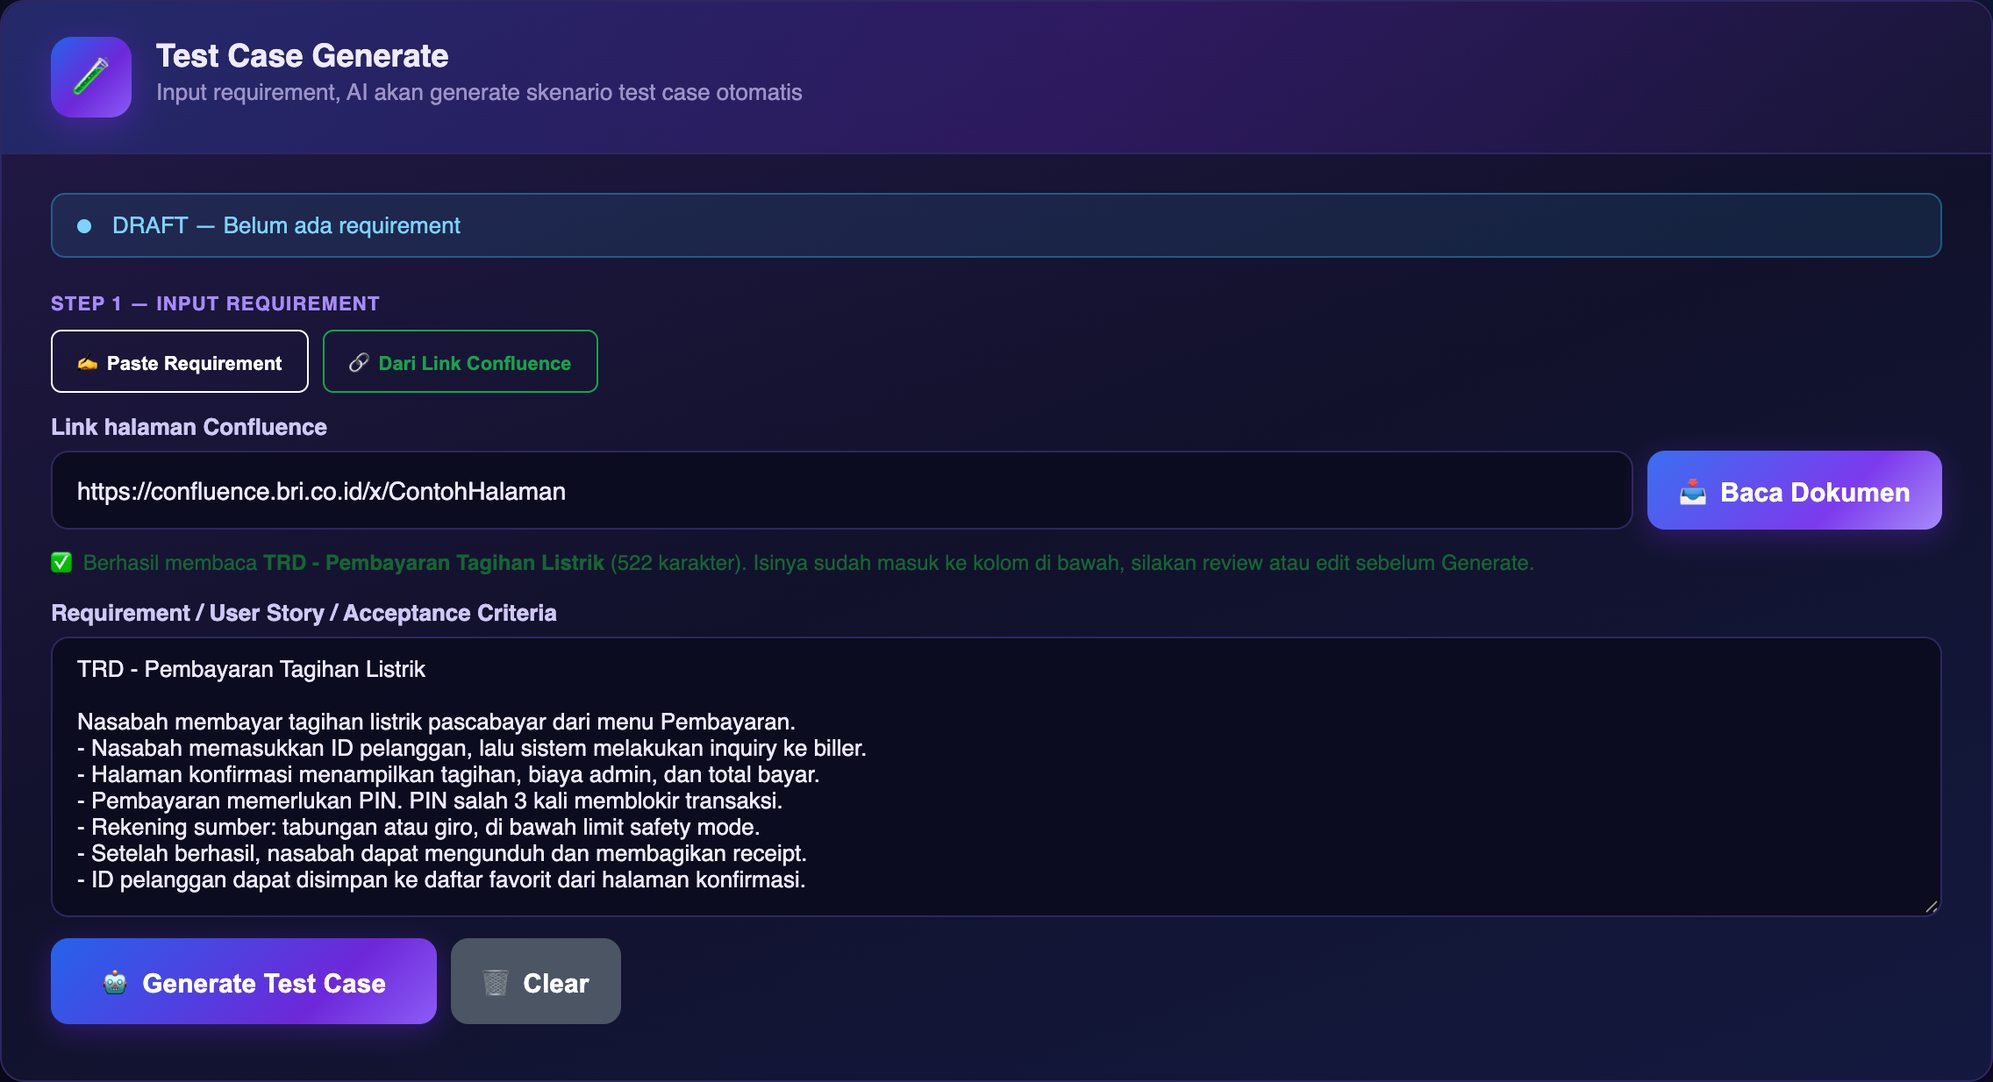
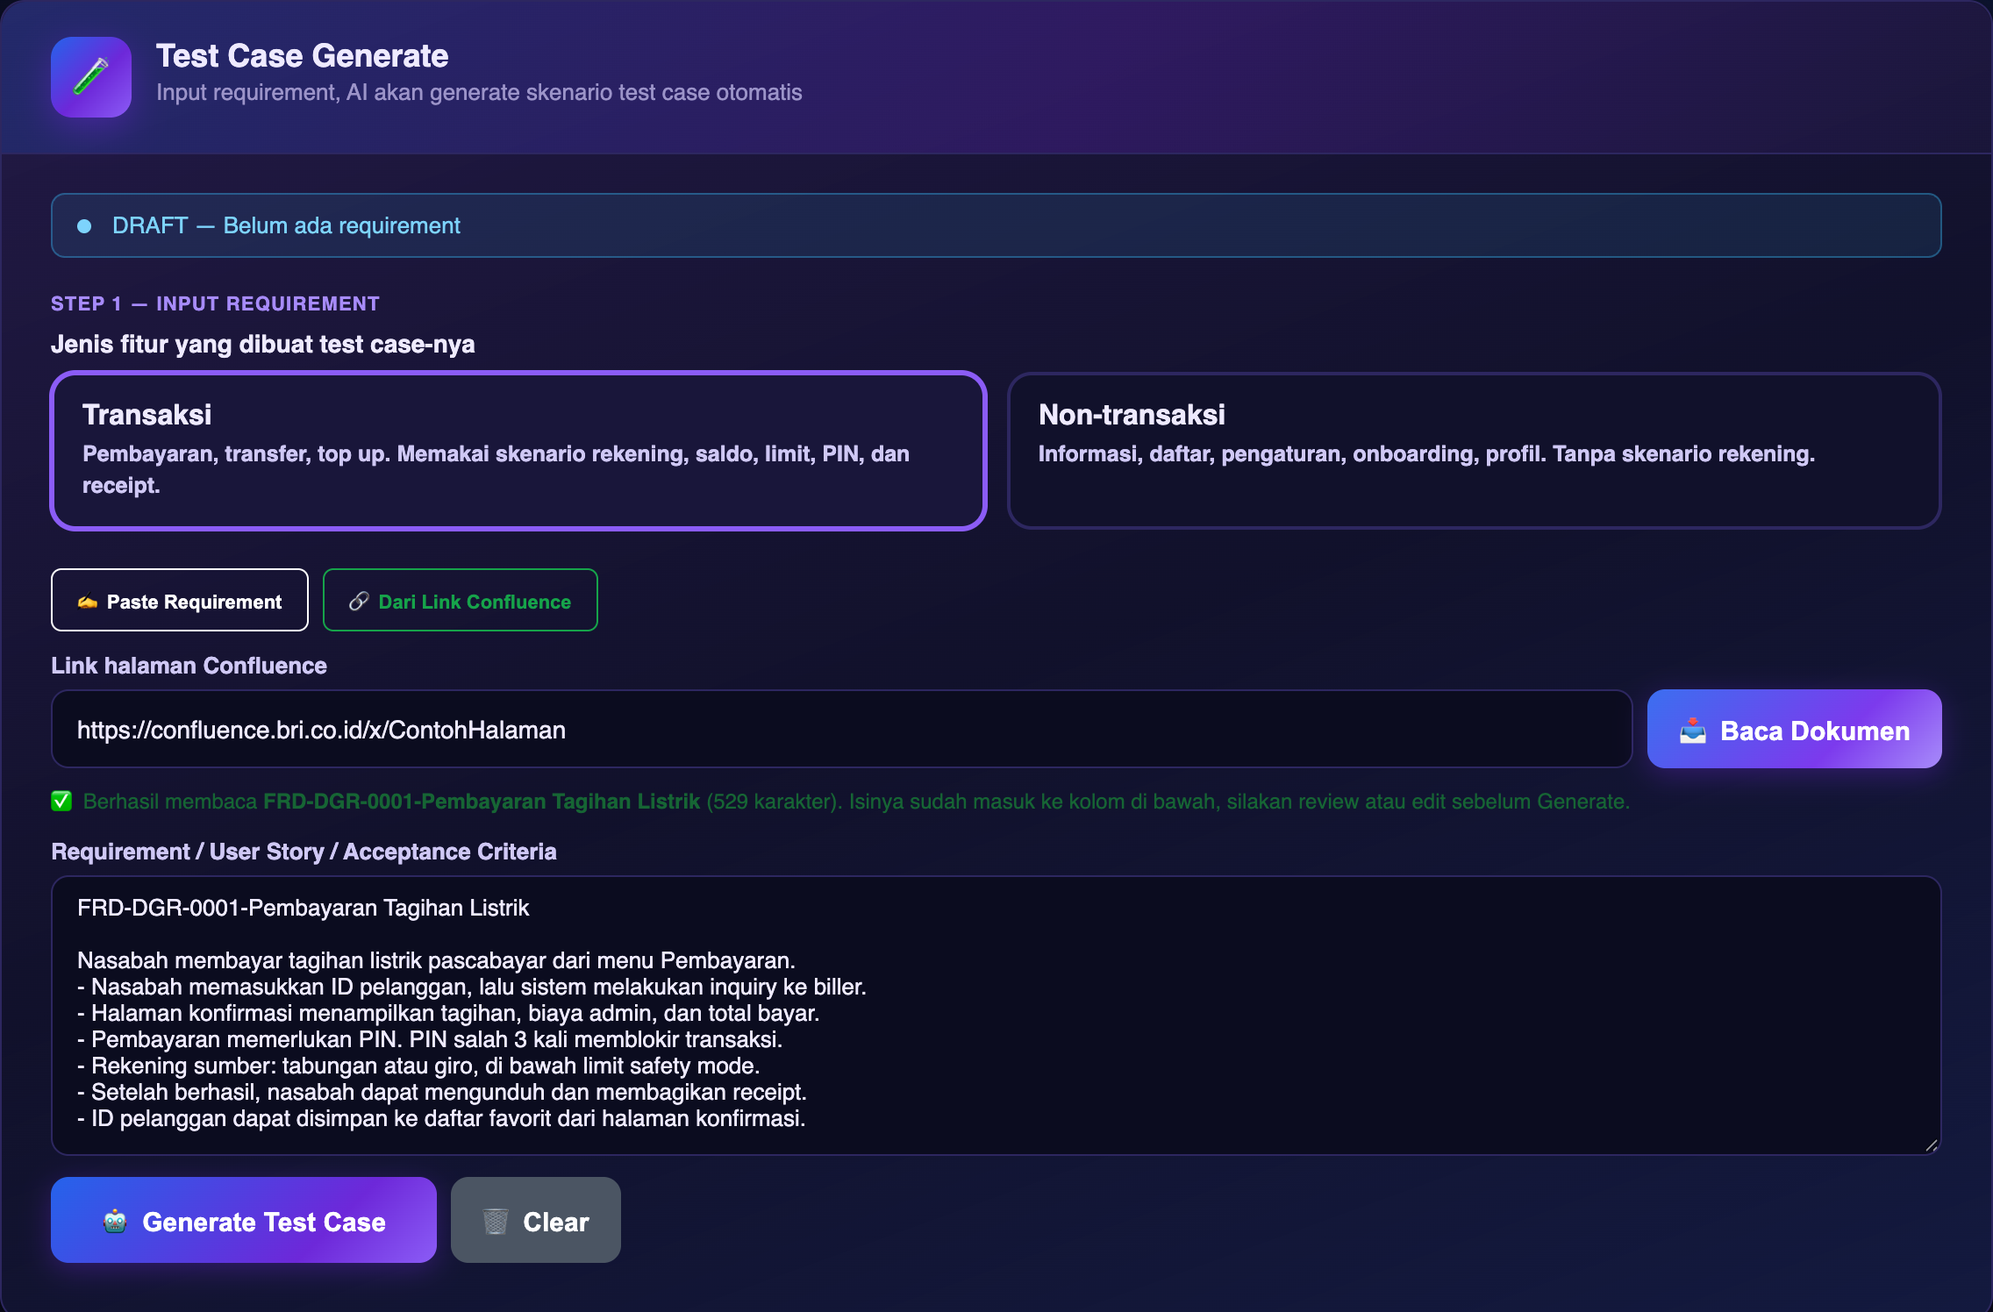
Perbarui presentasi: jenis fitur, 3 tombol keluaran, slide Jira dan Confluence sekali klik

Changed region(s): [[0.0, 0.0308, 1.0, 1.0], [0.5, 0.3079, 0.9062, 0.3695], [0.7188, 0.8314, 1.0, 0.893]]

diff --git a/index.html b/index.html
@@ -111,8 +111,11 @@ code, .mono { font-family: var(--mono); font-size: .9em; color: var(--text); }
 
 .s4 .text { width: 640px; flex: none; }
 .s4 .shot { width: 1032px; }
-.s5 .shot { width: 963px; }
+.s5 .shot { width: 860px; margin-top: 36px; }
 .s5 .text { flex: 1; }
+.sauto .text { flex: 1; }
+.sauto .stack { display: flex; flex-direction: column; gap: 24px; margin-left: auto; width: 760px; flex: none; }
+.sauto .shot { width: 100%; }
 .s6 .text { width: 560px; flex: none; }
 .s6 .shots { display: flex; gap: 24px; align-items: flex-start; margin-left: auto; }
 .s6 .shot { width: 536px; }
@@ -220,7 +223,7 @@ dialog .close { margin-top: 14px; }
     </div>
     <div class="main">
       <ol class="rows">
-        <li data-step="1"><span class="n">01</span><div><b>Menulis test case</b><span>Skenario per biller dan per kondisi ditulis satu per satu dari dokumen requirement.</span></div></li>
+        <li data-step="1"><span class="n">01</span><div><b>Menulis test case</b><span>Skenario per biller dan per kondisi ditulis satu per satu, lalu disalin lagi ke Jira dan Confluence.</span></div></li>
         <li data-step="2"><span class="n">02</span><div><b>Mengisi tiket UQA</b><span>Lebih dari 20 field di Jira, hampir semuanya sama dengan tiket sebelumnya.</span></div></li>
         <li data-step="3"><span class="n">03</span><div><b>Mengingatkan tiket</b><span>Tiket yang belum Done dicek satu per satu, lalu dikabari lewat chat.</span></div></li>
         <li data-step="4"><span class="n">04</span><div><b>Memeriksa defect</b><span>Screenshot dibandingkan dengan frame Figma menggunakan mata.</span></div></li>
@@ -236,7 +239,7 @@ dialog .close { margin-top: 14px; }
         <div class="lane-name"><b>Alur A</b><span>Test case sampai WhatsApp</span></div>
         <ol class="nodes">
           <li><b>Requirement</b><span>Tempel teks atau baca dari link Confluence</span></li>
-          <li><b>Test case</b><span>AI menyusun skenario, kamu memilih yang dipakai</span></li>
+          <li><b>Test case</b><span>AI menyusun, kamu memilih, lalu dibuat di Jira dan Confluence</span></li>
           <li><b>Tiket UQA</b><span>Form terisi, tiket dibuat di Jira setelah kamu klik</span></li>
           <li><b>WhatsApp</b><span>Pengingat dan laporan terkirim ke nomor atau grup</span></li>
         </ol>
@@ -257,30 +260,46 @@ dialog .close { margin-top: 14px; }
     <div class="head"><p class="kicker">Alur A, langkah 1: test case</p><h2>Requirement masuk, skenario keluar</h2></div>
     <div class="body">
       <ul class="facts text">
-        <li data-step="1"><b>Dua sumber input</b><span>Tempel teks requirement, atau masukkan link halaman Confluence dan isinya dibaca otomatis.</span></li>
-        <li data-step="2"><b>Tiga batch paralel</b><span>Transaksi, timeout, dan validasi sistem disusun bersamaan, tidak menunggu satu per satu.</span></li>
-        <li data-step="3"><b>Satu skenario per biller</b><span>Requirement dengan beberapa biller menghasilkan skenario terpisah untuk tiap biller.</span></li>
+        <li data-step="1"><b>Jenis fitur dipilih dulu</b><span>Transaksi memakai skenario rekening, saldo, limit, PIN, dan receipt. Non-transaksi tidak memuat skenario rekening sama sekali.</span></li>
+        <li data-step="2"><b>Dua sumber input</b><span>Tempel teks requirement, atau masukkan link halaman Confluence dan isinya dibaca otomatis.</span></li>
+        <li data-step="3"><b>Tiga batch paralel</b><span>Disusun bersamaan sesuai jenis fitur. Beberapa biller menghasilkan skenario terpisah per biller.</span></li>
       </ul>
-      <figure class="shot"><img src="assets/testcase-input.png" width="1136" height="617" alt="Halaman Test Case Generate dengan link Confluence terisi dan teks requirement hasil bacaan"><span class="sample">Data contoh</span></figure>
+      <figure class="shot"><img src="assets/testcase-input.png" width="1136" height="748" alt="Halaman Test Case Generate dengan pilihan jenis fitur Transaksi atau Non-transaksi, link Confluence terisi, dan teks requirement hasil bacaan"><span class="sample">Data contoh</span></figure>
     </div>
-    <p class="notes">Requirement bisa ditempel langsung atau dibaca dari halaman Confluence. Hasil bacaan masuk ke kolom yang sama, jadi kamu bisa mengeditnya sebelum Generate. AI menyusun skenario dalam tiga batch yang jalan bersamaan.</p>
+    <p class="notes">Pilih dulu jenis fiturnya. Fitur non-transaksi seperti onboarding atau profil tidak akan mendapat skenario rekening Branch A atau B. Requirement bisa ditempel atau dibaca dari halaman Confluence, lalu diedit sebelum Generate.</p>
   </section>
 
   <section class="slide s5" data-title="Kamu yang memutuskan skenario yang dipakai" aria-label="Slide 5">
     <div class="head"><p class="kicker">Alur A, langkah 2: review</p><h2>Kamu yang memutuskan skenario mana yang dipakai</h2></div>
     <div class="body">
-      <figure class="shot"><img src="assets/testcase-review.png" width="1106" height="913" alt="Tabel delapan test case, tujuh berstatus USE dan satu REMOVE, dengan tombol Finalize dan export"><span class="sample">Data contoh</span></figure>
+      <figure class="shot"><img src="assets/testcase-review.png" width="1078" height="901" alt="Tabel delapan test case, tujuh berstatus USE dan satu REMOVE, dengan tombol Finalize dan tiga tombol keluaran"><span class="sample">Data contoh</span></figure>
       <ul class="facts text">
         <li data-step="1"><b>Tandai tiap skenario</b><span>USE, REMOVE, atau edit. Ada juga tombol untuk memakai atau menghapus semuanya.</span></li>
         <li data-step="2"><b>Finalize membawa yang USE</b><span>Skenario yang dihapus tidak ikut ke keluaran.</span></li>
-        <li data-step="3"><b>Tiga bentuk keluaran</b><span>Halaman Confluence langsung dari aplikasi, file HTML, atau CSV.</span></li>
+        <li data-step="3"><b>Tiga tombol keluaran</b><span>Download CSV, Auto Create Confluence Page yang sekaligus membuat test di Jira, dan Buat Jira UQA.</span></li>
       </ul>
     </div>
     <p class="notes">AI hanya mengusulkan. Setiap skenario kamu putuskan sendiri. Setelah Finalize, jumlah yang dipakai itu juga yang nanti mengisi kolom SIT dan UAT di tiket.</p>
   </section>
 
-  <section class="slide s6" data-title="Tiket UQA sudah terisi" aria-label="Slide 6">
-    <div class="head"><p class="kicker">Alur A, langkah 3: tiket Jira</p><h2>Tiket UQA sudah terisi, kamu tinggal memeriksa</h2></div>
+  <section class="slide sauto" data-title="Test Jira dan halaman Confluence sekali klik" aria-label="Slide 6">
+    <div class="head"><p class="kicker">Alur A, langkah 3: Jira dan Confluence</p><h2>Test di Jira dan halaman Confluence, sekali klik</h2></div>
+    <div class="body">
+      <ul class="facts text">
+        <li data-step="1"><b>Epic, Test Set, Test</b><span>Satu Epic, satu Test Set, dan Test untuk tiap skenario USE. Test juga masuk folder Test Repository dengan judul yang sama.</span></li>
+        <li data-step="2"><b>Judul dari FRD</b><span>Diambil dari judul halaman Confluence tanpa awalan FRD-xxx-nnnn, dan tetap bisa diedit.</span></li>
+        <li data-step="3"><b>Nomor Jira di Confluence</b><span>Halaman dibuat setelah Jira selesai. Kolom No. Test Case berisi TC001 dan key Test-nya.</span></li>
+        <li data-step="4"><b>Cek dulu, tidak dobel</b><span>Pratinjau menunjukkan yang dibuat baru dan yang dipakai ulang. Test yang sudah ada dilewati.</span></li>
+      </ul>
+      <div class="stack">
+        <figure class="shot"><img src="assets/auto-modal.png" width="640" height="239" alt="Pratinjau sebelum dibuat: project, Epic, Test Set, folder, jumlah Test, dan halaman Confluence tujuan"><span class="sample">Data contoh</span></figure>
+        <figure class="shot"><img src="assets/auto-hasil.png" width="680" height="319" alt="Hasil: key Epic, Test Set, dan Test di Jira, serta halaman Confluence yang berhasil dibuat"></figure>
+      </div>
+    </div>
+    <p class="notes">Dulu test case ditulis di Confluence lalu dibuat ulang satu per satu di Jira. Sekarang satu tombol membuat Epic, Test Set, dan Test, lalu halaman Confluence yang sudah berisi nomor Jira. Di project yang tidak mengizinkan Epic dibuat lewat API, Epic dibuat lewat WBS Gantt.</p>
+  </section>
+  <section class="slide s6" data-title="Tiket UQA sudah terisi" aria-label="Slide 7">
+    <div class="head"><p class="kicker">Alur A, langkah 4: tiket Jira</p><h2>Tiket UQA sudah terisi, kamu tinggal memeriksa</h2></div>
     <div class="body">
       <ul class="facts text">
         <li data-step="1"><b>Dihitung dan diisi otomatis</b><span>Isi awal dari tiket UQA sebelumnya. Working Weeks dan Months dari tanggal hari ini, SIT dan UAT dari jumlah skenario yang dipakai.</span></li>
@@ -295,8 +314,8 @@ dialog .close { margin-top: 14px; }
     <p class="notes">Form ini menggantikan belasan klik di Jira. Semua kolom tetap bisa diedit. Kolom yang berisi data orang atau data change management sengaja kosong, supaya tidak ada yang terisi tanpa disengaja.</p>
   </section>
 
-  <section class="slide s7" data-title="Tiket yang belum Done diingatkan otomatis" aria-label="Slide 7">
-    <div class="head"><p class="kicker">Alur A, langkah 4: WhatsApp</p><h2>Tiket yang belum Done diingatkan otomatis</h2></div>
+  <section class="slide s7" data-title="Tiket yang belum Done diingatkan otomatis" aria-label="Slide 8">
+    <div class="head"><p class="kicker">Alur A, langkah 5: WhatsApp</p><h2>Tiket yang belum Done diingatkan otomatis</h2></div>
     <div class="body">
       <figure class="shot"><img src="assets/wa-chat.png" width="520" height="780" alt="Percakapan WhatsApp berisi pesan pengingat tiket dan satu file laporan HTML"><span class="sample">Tampilan contoh</span></figure>
       <ul class="facts text">
@@ -309,8 +328,8 @@ dialog .close { margin-top: 14px; }
     <p class="notes">Pesan berisi key tiket, judul, status, dan link yang bisa langsung diklik. Kalau tiketnya sudah Done, bot diam. Jadi pesan yang masuk memang tiket yang perlu dilihat.</p>
   </section>
 
-  <section class="slide s8" data-title="Laporan UQA jadi satu file" aria-label="Slide 8">
-    <div class="head"><p class="kicker">Alur A, langkah 5: laporan</p><h2>Laporan UQA jadi satu file dan terkirim ke WhatsApp</h2></div>
+  <section class="slide s8" data-title="Laporan UQA jadi satu file" aria-label="Slide 9">
+    <div class="head"><p class="kicker">Alur A, langkah 6: laporan</p><h2>Laporan UQA jadi satu file dan terkirim ke WhatsApp</h2></div>
     <div class="pair">
       <figure class="shot"><img src="assets/report-ui.png" width="1090" height="759" alt="Daftar review laporan UQA dengan tombol edit dan hapus di tiap baris dan tombol Kirim ke WhatsApp"><span class="sample">Review, data contoh</span></figure>
       <figure class="shot"><img src="assets/report-html.png" width="1240" height="860" alt="Laporan HTML dengan kartu ringkasan, sebaran status, dan tabel tiket"><span class="sample">Hasil, data contoh</span></figure>
@@ -323,7 +342,7 @@ dialog .close { margin-top: 14px; }
     <p class="notes">Filter memakai query JQL yang sama dengan yang biasa dipakai tim. Hasilnya bisa kamu rapikan dulu di tabel review, lalu satu file HTML terkirim ke WhatsApp dan bisa dibuka di browser.</p>
   </section>
 
-  <section class="slide s9 lane-b" data-title="Lihat dulu desain dan gambar defect" aria-label="Slide 9">
+  <section class="slide s9 lane-b" data-title="Lihat dulu desain dan gambar defect" aria-label="Slide 10">
     <div class="head"><p class="kicker b">Alur B: Compare Defect</p><h2>Lihat dulu desain dan gambar defect, baru bandingkan</h2></div>
     <div class="pair">
       <figure data-step="1">
@@ -338,7 +357,7 @@ dialog .close { margin-top: 14px; }
     <p class="notes">Dua sumber ini dipratinjau terpisah supaya kamu yakin yang dibandingkan memang pasangan yang benar. Link Figma boleh menunjuk ke satu frame atau ke section berisi banyak layar, lalu kamu pilih salah satu.</p>
   </section>
 
-  <section class="slide s10 lane-b" data-title="Perbedaan ditandai di kedua gambar" aria-label="Slide 10">
+  <section class="slide s10 lane-b" data-title="Perbedaan ditandai di kedua gambar" aria-label="Slide 11">
     <div class="head"><p class="kicker b">Alur B: Compare Defect</p><h2>Perbedaan ditandai di kedua gambar</h2></div>
     <div class="body">
       <ul class="facts text">
@@ -351,7 +370,7 @@ dialog .close { margin-top: 14px; }
     <p class="notes">Tanpa AI pun kamu bisa membandingkan secara visual dengan tiga mode ini. Kalau AI dipakai, perbedaan ditandai dengan kotak yang nomornya cocok dengan tabel hasil.</p>
   </section>
 
-  <section class="slide s11 lane-b" data-title="Hasil analisis per area" aria-label="Slide 11">
+  <section class="slide s11 lane-b" data-title="Hasil analisis per area" aria-label="Slide 12">
     <div class="head"><p class="kicker b">Alur B: Compare Defect</p><h2>Hasil analisis tampil sebagai tabel per area</h2></div>
     <figure class="shot"><img src="assets/compare-result.png" width="1082" height="330" alt="Penilaian Defect valid dan tabel tiga perbedaan lengkap dengan isi desain, isi aktual, dan tingkat"><span class="sample">Hasil contoh</span></figure>
     <div class="cols">
@@ -362,7 +381,7 @@ dialog .close { margin-top: 14px; }
     <p class="notes">Angka dan isi tabel di slide ini adalah contoh. AI hanya membantu menemukan area yang perlu dilihat. Keputusan tetap di QA.</p>
   </section>
 
-  <section class="slide s12 lane-b" data-title="Komentar ke Jira direview dulu" aria-label="Slide 12">
+  <section class="slide s12 lane-b" data-title="Komentar ke Jira direview dulu" aria-label="Slide 13">
     <div class="head"><p class="kicker b">Alur B: Compare Defect</p><h2>Komentar ke Jira direview dulu, baru dikirim</h2></div>
     <div class="body">
       <ul class="facts text">
@@ -376,7 +395,7 @@ dialog .close { margin-top: 14px; }
     <p class="notes">Komentar tidak pernah terkirim sendiri. Kamu membaca drafnya, mengubah seperlunya, lalu menekan kirim dan mengonfirmasi di dialog. Gambar bertanda ikut menjadi lampiran tiket.</p>
   </section>
 
-  <section class="slide s13" data-title="Yang sengaja tidak berjalan sendiri" aria-label="Slide 13">
+  <section class="slide s13" data-title="Yang sengaja tidak berjalan sendiri" aria-label="Slide 14">
     <div class="head"><p class="kicker">Kontrol dan batas</p><h2>Yang sengaja tidak berjalan sendiri</h2></div>
     <div class="body">
       <div>
@@ -387,7 +406,7 @@ dialog .close { margin-top: 14px; }
         <div data-step="1">
           <h3>Selalu menunggu persetujuan kamu</h3>
           <ul class="facts">
-            <li><span>Tiket Jira dibuat setelah tombol Buat Tiket ditekan.</span></li>
+            <li><span>Tiket UQA, Test Jira, dan halaman Confluence dibuat setelah tombol Buat ditekan.</span></li>
             <li><span>Komentar dan lampiran ke Jira terkirim setelah dialog konfirmasi.</span></li>
             <li><span>Gambar dikirim ke layanan AI setelah persetujuan dicentang dan dikonfirmasi.</span></li>
             <li><span>Laporan ke WhatsApp terkirim setelah dialog konfirmasi.</span></li>
@@ -406,7 +425,7 @@ dialog .close { margin-top: 14px; }
     <p class="notes">Semua langkah yang mengubah data di luar aplikasi, yaitu membuat tiket, menulis komentar, mengirim gambar ke AI, dan mengirim WhatsApp, menunggu konfirmasi kamu. Batas di kolom kanan sebaiknya diketahui sebelum dipakai tim.</p>
   </section>
 
-  <section class="slide s14" data-title="Jalan lokal sekarang, online setelah izin" aria-label="Slide 14">
+  <section class="slide s14" data-title="Jalan lokal sekarang, online setelah izin" aria-label="Slide 15">
     <div class="main">
       <p class="brand">Q-PULSE · QMDxKiro</p>
       <h2>Jalan di komputer lokal sekarang, online setelah izin keamanan</h2>

diff --git a/GATE.md b/GATE.md
@@ -1,11 +1,11 @@
 # GATE: Presentasi Q-PULSE
 
-Dijalankan dengan Puppeteer + Chrome headless. Tanggal 2026-11-15.
+Dijalankan dengan Puppeteer + Chrome headless. Tanggal 2026-11-15, diulang 2026-11-26 setelah pembaruan.
 
 | Item | Hasil | Bukti |
 |---|---|---|
-| Jumlah slide | PASS | 14 |
-| Gambar dimuat | PASS | 15 dimuat, 0 bermasalah, dimensi cocok atribut width/height |
+| Jumlah slide | PASS | 15 |
+| Gambar dimuat | PASS | 17 dimuat, 0 bermasalah, rasio sesuai atribut, dimensi cocok atribut width/height |
 | Tanda pisah panjang (R-02) | PASS | 0 em dash |
 | Kata terlarang | PASS | tidak ada |
 | Kontras teks | PASS | 0 elemen kontras rendah di 14 slide |
@@ -13,16 +13,25 @@ Dijalankan dengan Puppeteer + Chrome headless. Tanggal 2026-11-15.
 | Gambar keluar panggung | PASS | hanya slide 1, disengaja |
 | Overflow horizontal | PASS | 1366, 1024, 390, 844 lebar: scrollWidth sama dengan lebar |
 | Request gagal / error JS | PASS | tidak ada |
-| Panah kiri/kanan, Home, End | PASS | End 14/14, Home 1/14, dua kali kanan 2/14, kiri tetap di slide 2 (fragmen mundur) |
+| Panah kiri/kanan, Home, End | PASS | End 14/14 (uji 15-11), Home 1/14, dua kali kanan 2/14, kiri tetap di slide 2 (fragmen mundur) |
 | Daftar `O` | PASS | terbuka, 14 item, klik item 7 pindah ke 7 dan menutup, Escape menutup dan fokus kembali |
 | Catatan `N` | PASS | terbuka, berisi catatan slide |
 | Tombol Sebelumnya / Berikutnya | PASS | berfungsi, tombol 44px |
 | Slide tidak aktif | PASS | `inert` |
 | Fokus keyboard | PASS | outline solid 3px, urutan Tab logis |
-| Cetak PDF | PASS | 14 halaman, 5066 KB |
+| Cetak PDF | PASS | 15 halaman |
 | Judul slide 2 dan 14 setelah `text-wrap:balance` | PASS | dilihat langsung, pemenggalan wajar |
 | Layar penuh `F` | TIDAK TERVERIFIKASI | ditolak oleh Chrome headless, perlu dicoba manual |
 | Data asli di gambar | PASS | semua data contoh, berlabel "Data contoh" |
 
 ## Temuan di luar deck
 Judul modal `Review Tiket Jira UQA` di aplikasi memakai warna inline `#0747a6`, kontras rendah di mode gelap. Terlihat di `assets/jira-atas.png`. Belum diperbaiki.
+
+## Ulang 26-11-2026
+| Item | Hasil | Bukti |
+|---|---|---|
+| Batas bawah 1016px slide 3 sampai 14 | PASS | maksimal 1016 |
+| Error JS | PASS | tidak ada |
+| Tanda pisah panjang | PASS | 0 |
+| Slide 4, 5, 6, 14 dilihat langsung | PASS | tidak ada teks terpotong atau tumpang tindih |
+| Navigasi keyboard, daftar, catatan | TIDAK DIULANG | logika navigasi tidak diubah, jumlah slide dibaca otomatis |

diff --git a/DESIGN.md b/DESIGN.md
@@ -1,7 +1,7 @@
 # DESIGN: Presentasi Q-PULSE
 
 ## Identitas
-Deck satu file (`index.html`, CSS dan JS inline) plus `assets/*.png`. Menjual dua fitur: Alur A (test case, tiket Jira UQA, WhatsApp) dan Alur B (Compare Defect). 14 slide, panggung tetap 1920x1080 yang diskalakan ke layar.
+Deck satu file (`index.html`, CSS dan JS inline) plus `assets/*.png`. Menjual dua fitur: Alur A (test case dengan jenis fitur, Test Jira dan halaman Confluence sekali klik, tiket Jira UQA, WhatsApp) dan Alur B (Compare Defect). 15 slide, panggung tetap 1920x1080 yang diskalakan ke layar.
 
 ## Palet (dari chat pengguna)
 | Hex | Peran |
@@ -41,3 +41,9 @@ ENERGY 2, RHYTHM 3, MOTION 2. Gerak hanya untuk memunculkan fragmen dan pindah s
 
 Cetak ke PDF: ukuran 1920x1080, satu slide per halaman (CSS cetak sudah disiapkan).
 Buka: `open presentasi-qpulse/index.html`.
+
+## Pembaruan 26-11-2026
+- Slide 4: pilihan jenis fitur Transaksi atau Non-transaksi, gambar `testcase-input.png` diganti.
+- Slide 5: tiga tombol keluaran (Download CSV, Auto Create Confluence Page, Buat Jira UQA), gambar `testcase-review.png` diganti.
+- Slide 6 baru: Epic, Test Set, Test, folder Test Repository, dan halaman Confluence dengan nomor Jira. Gambar `auto-modal.png` dan `auto-hasil.png`, data contoh project `DEMO`.
+- Slide 3 dan 14 menyesuaikan alur baru. Nomor langkah Alur A bergeser satu.
